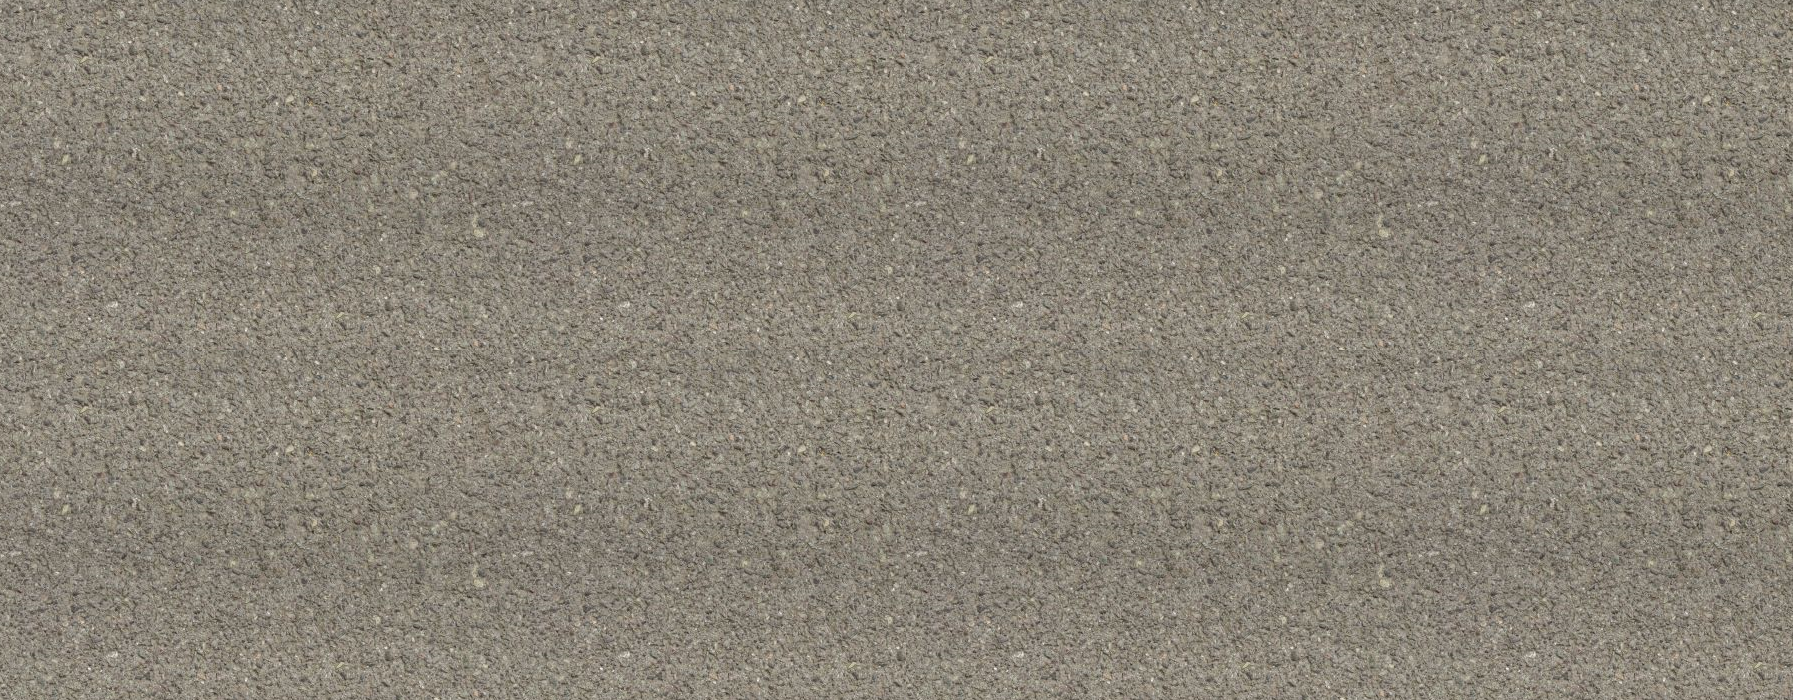
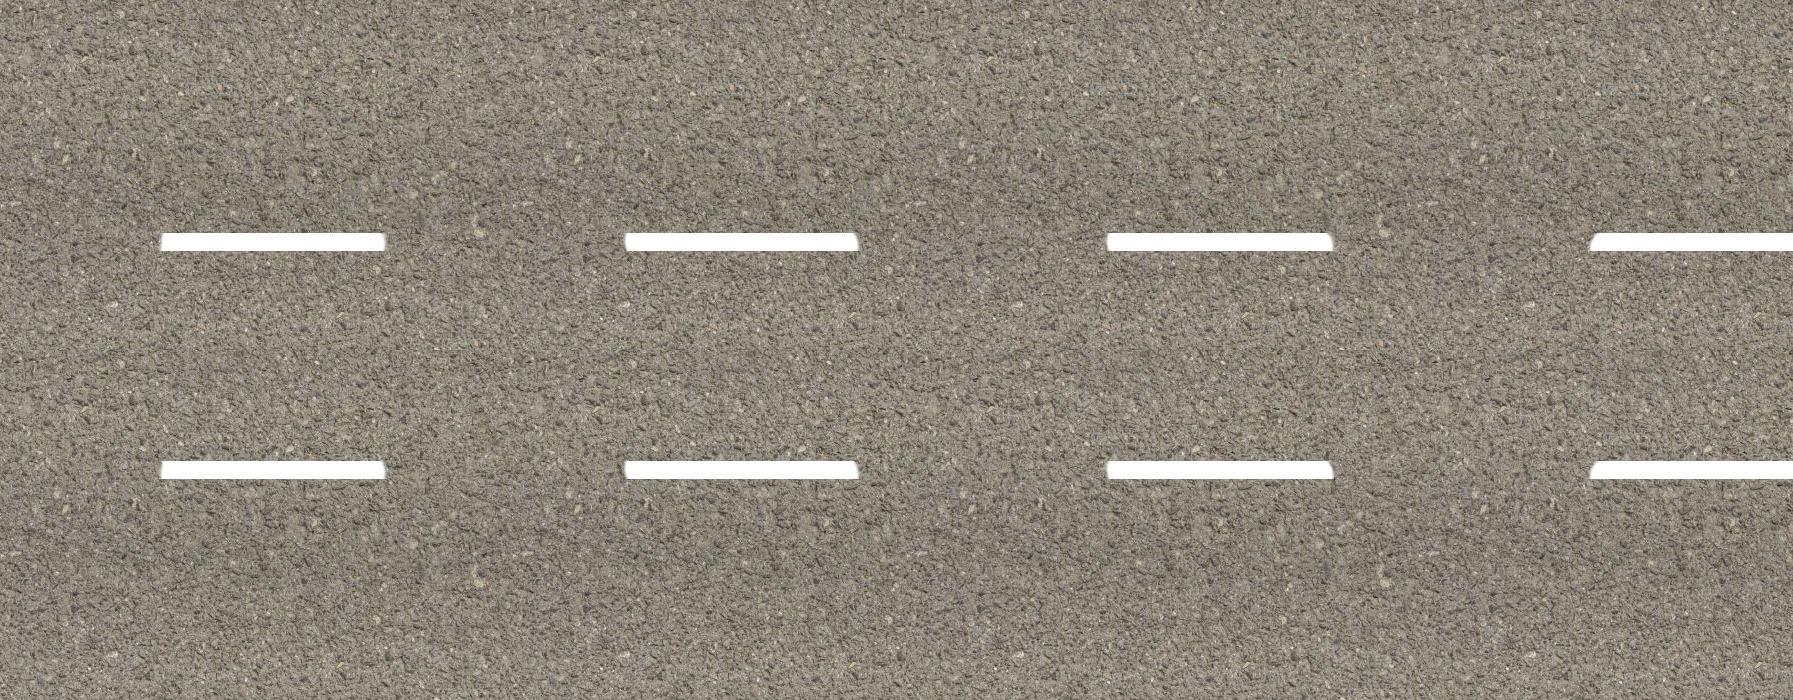
atualização faixa

diff --git a/CarGame.py b/CarGame.py
@@ -6,83 +6,77 @@ window_height = 700
 
 
 game_display = pygame.display.set_mode((window_width, window_height))
+fundo = pygame.Surface((1100,700))
+fundo.fill(pygame.Color(0,100,10))
 pygame.display.set_caption("Running Over Holes")
 
 
 clock = pygame.time.Clock()
 car_running = pygame.image.load("car_running.png")
-rua = pygame.image.load("asfalto2.0.png")
-divisoria = pygame.image.load("divisoria.png")
-faixa = pygame.image.load("faixa.png")
-
-superficieFaixa = pygame.Surface((1100,15))
-superficieFaixa2 = pygame.Surface((1100,15))
-superficieDivisoria = pygame.Surface((1100,15))
-divisoria = pygame.transform.scale(divisoria,(1100,15))
-superficieDivisoria.blit(divisoria,(0,0))
-superficieFaixa.blit(faixa,(0,0))
-superficieFaixa2.blit(faixa,(0,0))
 car_running = pygame.transform.scale(car_running, (180 , 115))
-rua = pygame.transform.scale(rua,(1100,500))
+
+rua = pygame.image.load("asfalto2.0.png")
+rua = pygame.transform.scale(rua,(1110,500))
+
+divisoria = pygame.image.load("divisoria.png")
+divisoria = pygame.transform.scale(divisoria,(1100,15))
+
+
+superficieDivisoria = pygame.Surface((1100,15))
+superficieDivisoria.blit(divisoria,(0,0))
+
+superficieDivisoriaBaixo = pygame.Surface((1100,15))
+superficieDivisoriaBaixo.blit(divisoria,(0,0))
+
 estrada = pygame.Surface((1100,500))
 estrada.blit(rua,(0,0))
 
 def car(x, y):
     game_display.blit(car_running, (x, y))
 
-FPS = 60
+
 def game_loop():
-    car_width = 64
-    x_change = 0
-    x = (window_width * 0.09)
-    y = (window_height * 0.2)
+    y_carro= 115     
     running = True
     posicaoEstrada = 0
-    posicaoEstrada2 = 1100
-    posicaoFaixa = 0
-    posicaoFaixa2 = 1100
+    posicaoEstrada2 = 1099
+    
+    FPS =60
     while running:
        
         for event in pygame.event.get():
             if event.type == pygame.QUIT:
                 running = False
-                pygame.quit()
-           
+                pygame.quit()         
             if event.type == pygame.KEYDOWN:
-                if event.key == pygame.K_LEFT:
-                    x_change = -5
-                if event.key == pygame.K_RIGHT:
-                    x_change = 5
+                if event.key == pygame.K_UP:
+                  y_carro -= 172
+                if event.key == pygame.K_DOWN:
+                    y_carro += 172             
             if event.type == pygame.KEYUP:
                 if event.key == pygame.K_LEFT or event.key == pygame.K_RIGHT:
                     x_change = 0
             
-        x += x_change
         
+        game_display.blit(fundo,(0,0))
+        posicaoEstrada -= 5
+        if posicaoEstrada <= -1099:
+            posicaoEstrada = 1099
         game_display.blit(estrada,(posicaoEstrada,100))
+        posicaoEstrada2 -= 5
+        if posicaoEstrada2 <= -1099:
+            posicaoEstrada2 = 1099
         game_display.blit(estrada,(posicaoEstrada2,100))
-        game_display.blit(divisoria,(0,100))
-        estrada.blit(superficieFaixa,(posicaoFaixa,235))
-        estrada.blit(superficieFaixa2,(posicaoFaixa2,235))
-        posicaoEstrada -= 3
-        posicaoFaixa -= 2
-        if posicaoFaixa <= -1100:
-            posicaoFaixa  = 1100
-        posicaoFaixa2 -= 2
-        if posicaoFaixa2 <= -1100:
-            posicaoFaixa2  = 1100  
-        if posicaoEstrada <= -1100:
-            posicaoEstrada = 1100
-        posicaoEstrada2 -= 3
-        if posicaoEstrada2 <= -1100:
-            posicaoEstrada2 = 1100
         
-        car(x, 115)
+        game_display.blit(superficieDivisoria,(0,100))
+        game_display.blit(superficieDivisoria,(0,100))
+        game_display.blit(superficieDivisoriaBaixo,(0,585))
+        game_display.blit(superficieDivisoriaBaixo,(0,585))
+        
+                
+        car(0, y_carro)
 
-        if x < 0 or x > (window_width - car_width):
-            running = False
-            print("You Carshed!!!!")
-
+        
         pygame.display.update()
         clock.tick(FPS)
 
